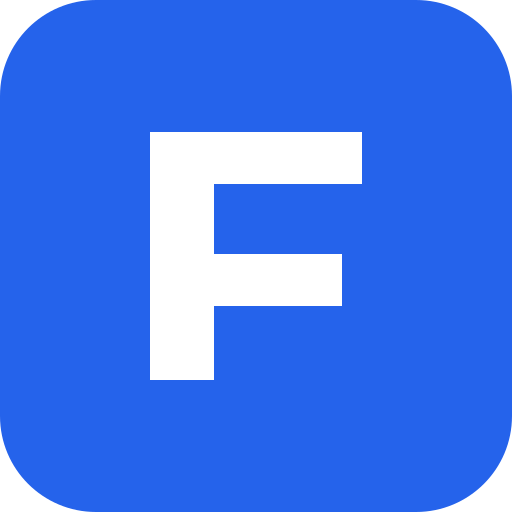
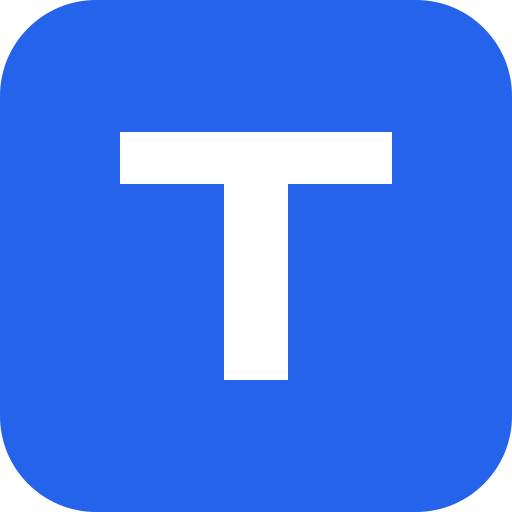
rename project to Thea
Site name, package name, CLAUDE.md, README, seed copy, launch config, and the letter mark
in the header, OG card and icons (favicon, apple-icon, icon.png) now say Thea / T.

Changed region(s): [[0.2188, 0.25, 0.6875, 0.75], [0.6875, 0.25, 0.7812, 0.375]]

diff --git a/prisma/seed.ts b/prisma/seed.ts
@@ -15,7 +15,7 @@ const AUTHORS = [
     name: "Maya Reyes",
     slug: "maya-reyes",
     avatar: "/avatars/maya-reyes.svg",
-    bio: "Maya writes FixDesk's update coverage. She tracks every Windows 11 cumulative and feature update on the day it ships, installs it on a test PC, and reports what changed and what to watch for. Placeholder bio — replace before launch.",
+    bio: "Maya writes Thea's update coverage. She tracks every Windows 11 cumulative and feature update on the day it ships, installs it on a test PC, and reports what changed and what to watch for. Placeholder bio — replace before launch.",
     categoryFocus: ["windows-updates", "update-problems"],
     stylePrompt:
       "Voice: calm, factual, newsroom-style. Lead with what changed and who it affects. Short paragraphs, plain English, no hype. Name the exact KB and build from the sources. Prefer 'Microsoft says' over speculation. Use a bulleted change list where it helps scanning.",

diff --git a/src/components/site/header.tsx b/src/components/site/header.tsx
@@ -11,7 +11,7 @@ export function SiteHeader() {
       <div className="mx-auto flex max-w-6xl items-center justify-between gap-4 px-4 py-3">
         <Link href="/" className="flex items-center gap-2 text-lg font-bold tracking-tight text-zinc-900" title="Home">
           <span className="inline-flex h-7 w-7 items-center justify-center rounded-md bg-blue-600 text-sm font-black text-white" aria-hidden="true">
-            F
+            T
           </span>
           {SITE.name}
         </Link>

diff --git a/src/app/(site)/page.tsx b/src/app/(site)/page.tsx
@@ -18,7 +18,7 @@ export const metadata: Metadata = {
     description: `${SITE.tagline}. What changed in each Windows 11 update, what it broke, and step-by-step fixes reviewed by human editors.`,
     path: "/",
   }),
-  // The root layout applies a "%s · FixDesk" template; the home title already carries the site name.
+  // The root layout applies a "%s · Thea" template; the home title already carries the site name.
   title: { absolute: TITLE },
 };
 

diff --git a/src/app/api/og/route.tsx b/src/app/api/og/route.tsx
@@ -123,7 +123,7 @@ export function GET(request: NextRequest) {
                 ...boldStyle(36, WHITE),
               }}
             >
-              F
+              T
             </div>
             <div style={{ marginLeft: 16, fontSize: 32, ...boldStyle(32, ZINC_900) }}>{SITE.name}</div>
           </div>

diff --git a/src/lib/constants.ts b/src/lib/constants.ts
@@ -4,7 +4,7 @@
  */
 
 export const SITE = {
-  name: "FixDesk",
+  name: "Thea",
   tagline: "Same-day Windows update coverage and error-code fixes",
   url: (process.env.NEXT_PUBLIC_SITE_URL ?? "http://localhost:3000").replace(/\/$/, ""),
 } as const;

diff --git a/README.md b/README.md
@@ -1,4 +1,4 @@
-# FixDesk
+# Thea
 
 SEO-first blog covering Windows updates (what changed, what broke, how to fix it) and error-code fixes for the newest Windows builds. See [CLAUDE.md](./CLAUDE.md) for the product spec, content rules and build order.
 

diff --git a/CLAUDE.md b/CLAUDE.md
@@ -1,4 +1,4 @@
-# Project: FixDesk (working name) — Windows update & error-fix blog
+# Project: Thea — Windows update & error-fix blog
 
 ## What this is
 A dynamic, SEO-first blog that publishes same-day coverage of Windows updates
